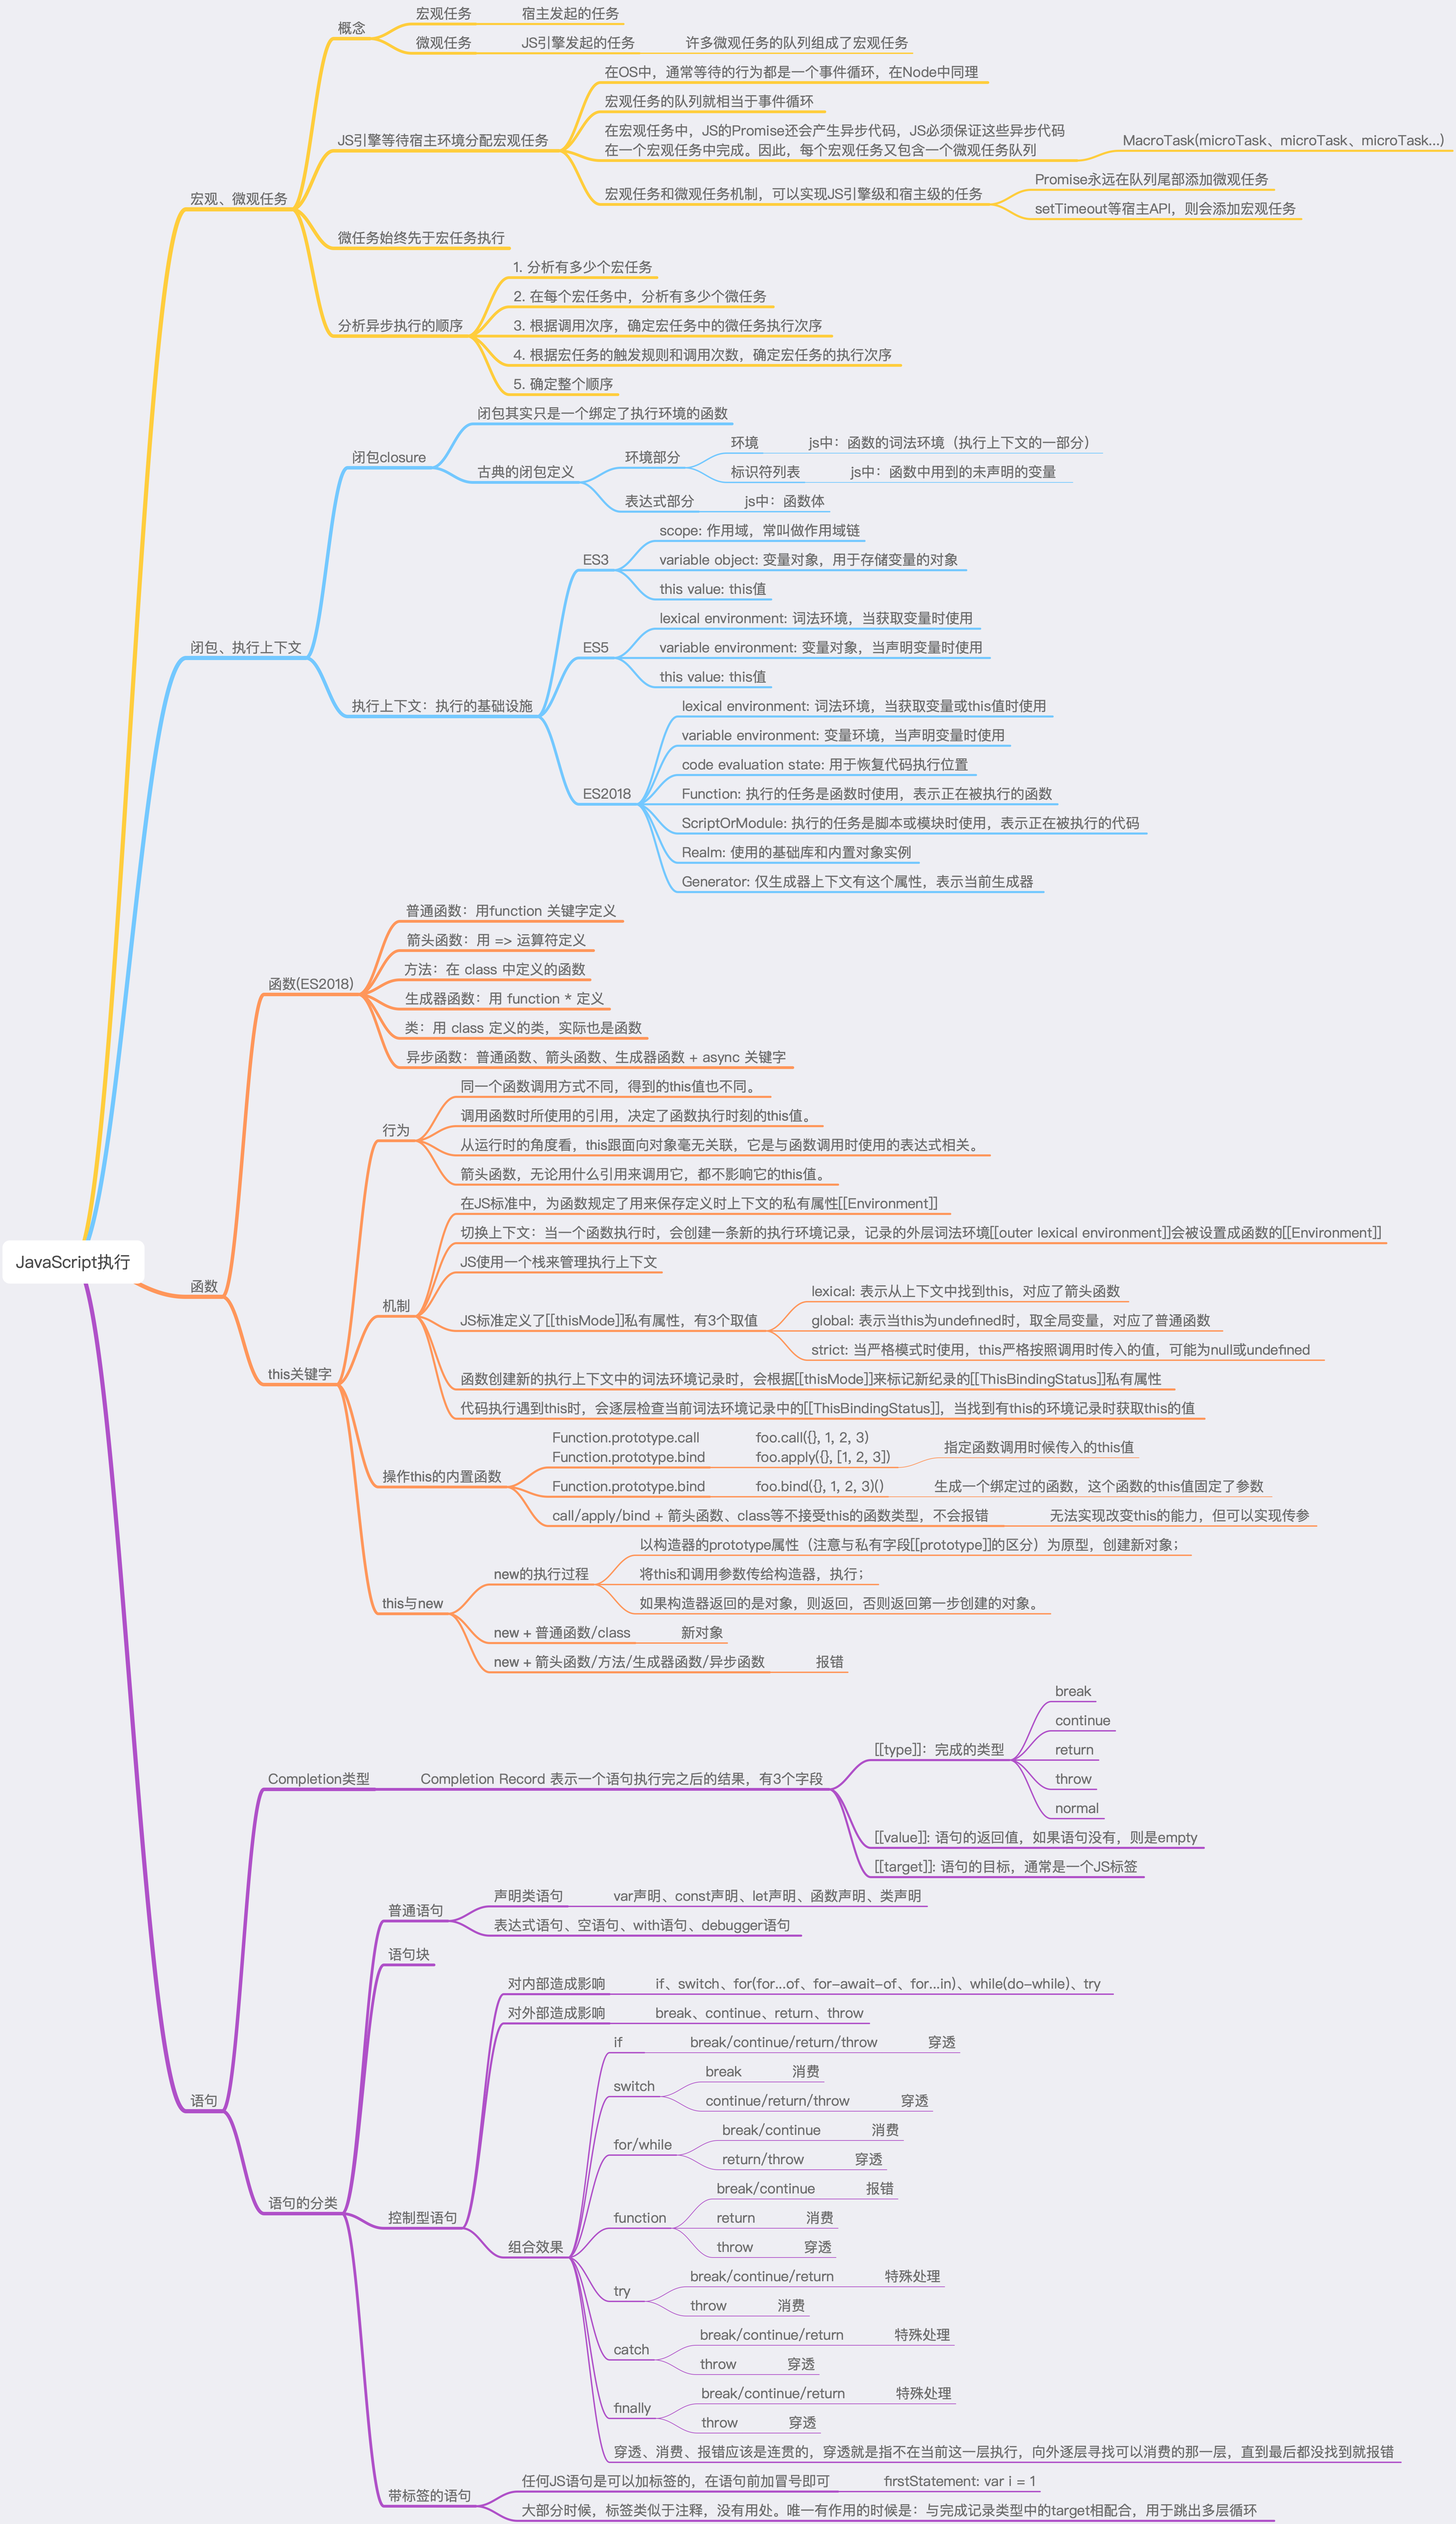
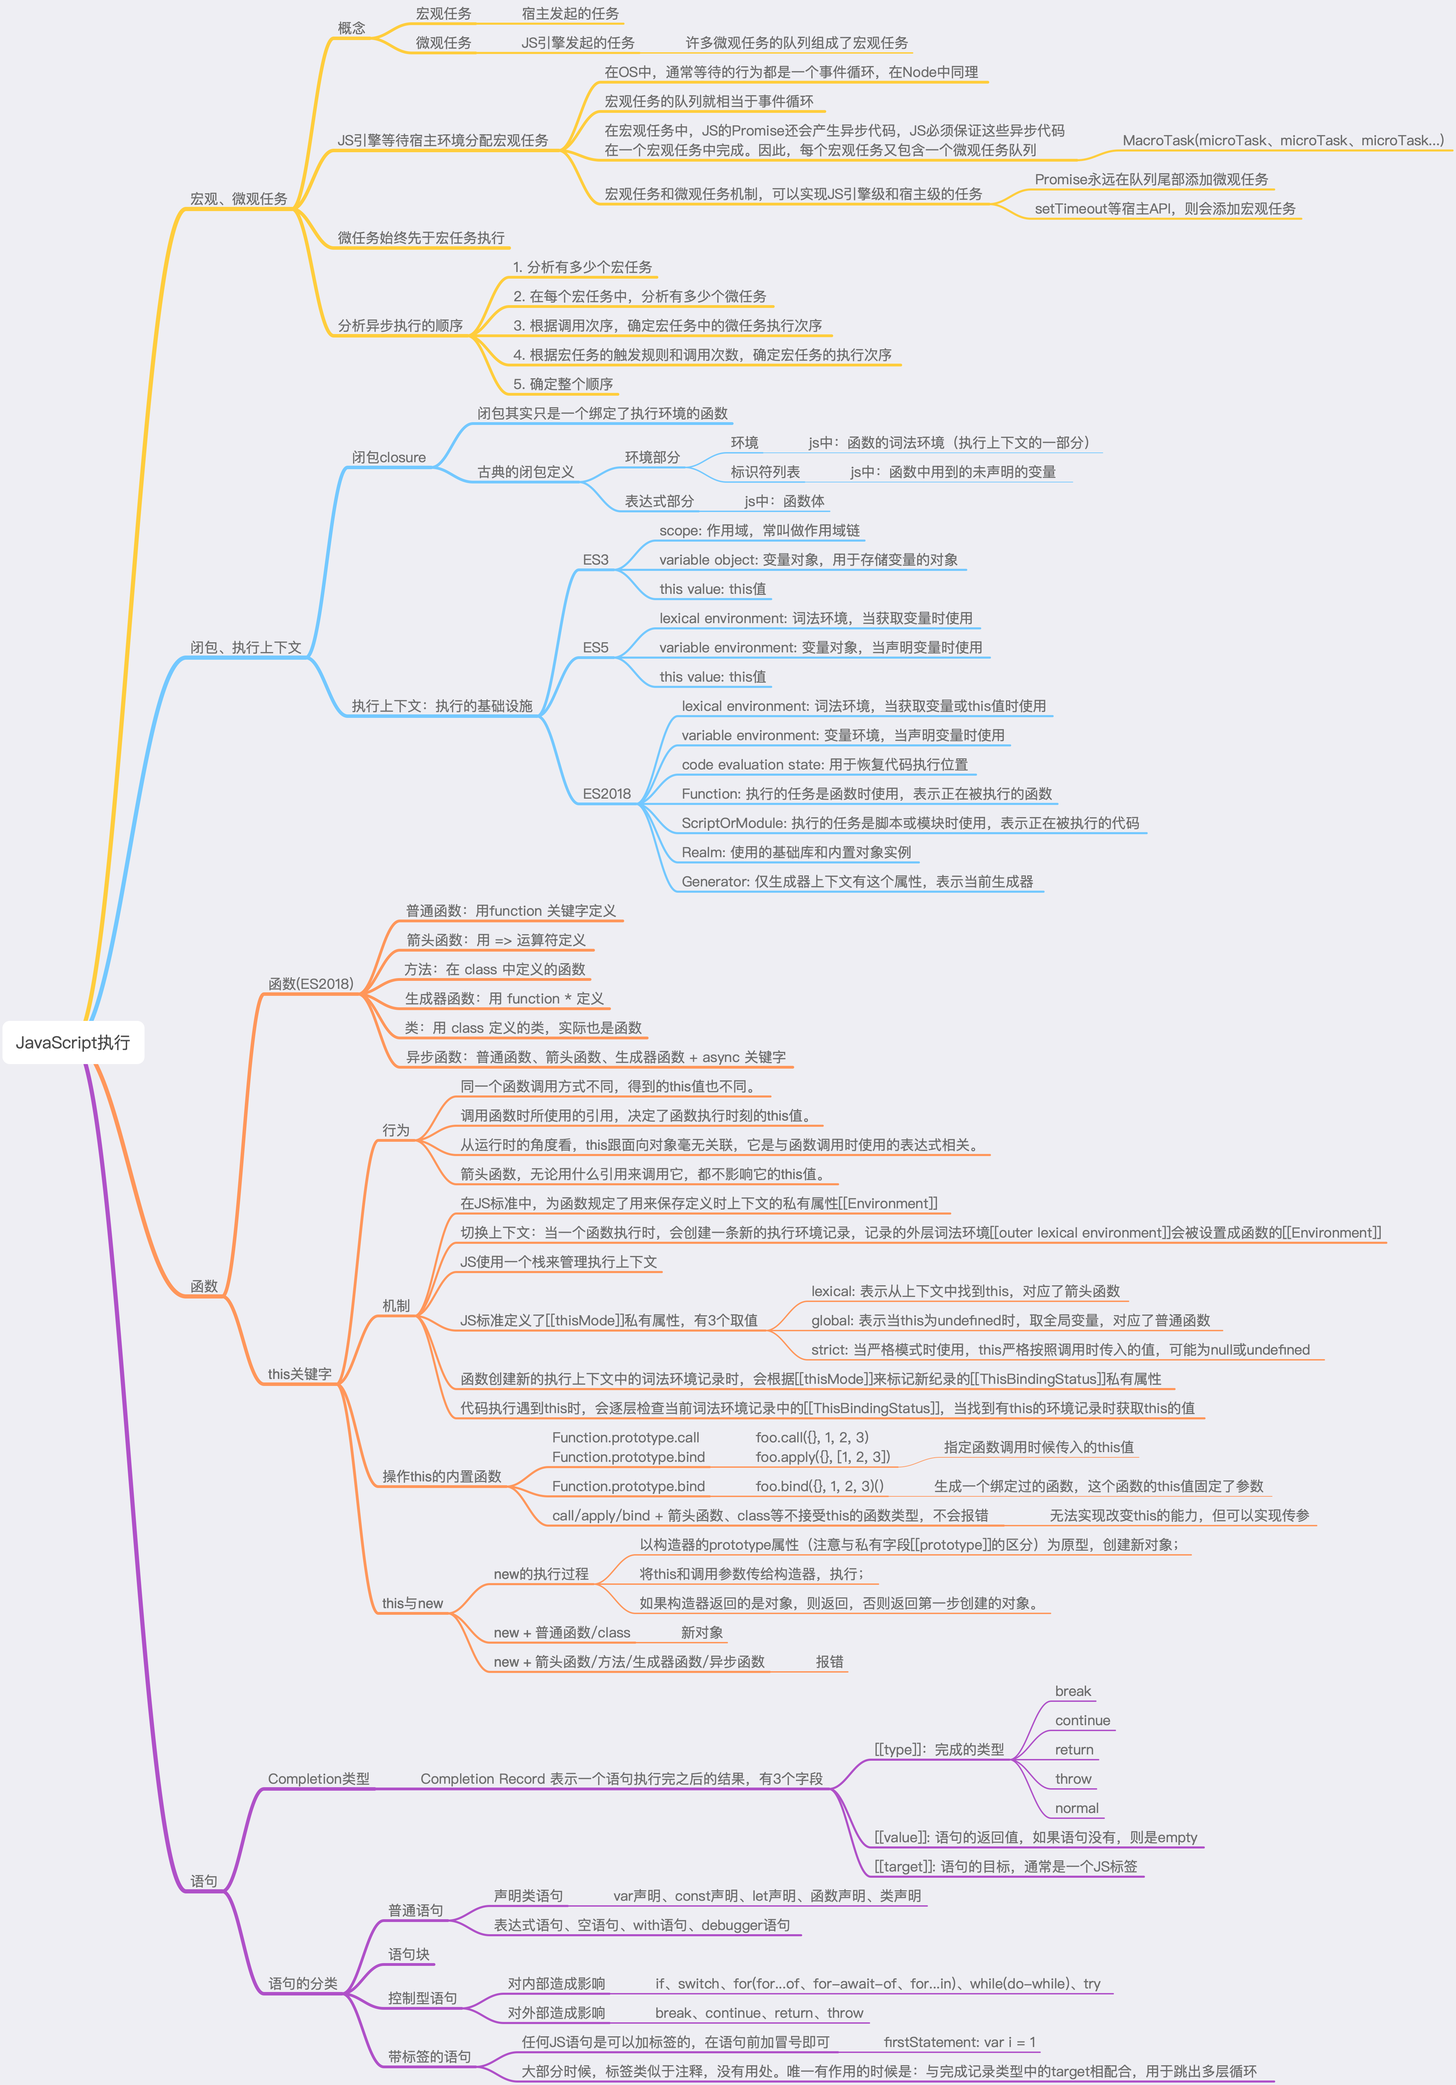
docs(js): update js执行;

diff --git a/Notes/JavaScript/JavaScript执行.md b/Notes/JavaScript/JavaScript执行.md
@@ -1,3 +1,19 @@
 # JavaScript 执行
 
+### 1. 思维导图
+
 ![](/MindMap/JavaScript/JavaScript执行.png)
+
+### 2. 控制型组合效果图
+
+穿透、消费、报错应该是连贯的，穿透就是指不在当前这一层执行，向外逐层寻找可以消费的那一层，直到最后都没找到就报错
+
+|           |  break   | continue |  return  | throw |
+| :-------: | :------: | :------: | :------: | :---: |
+|    if     |   穿透   |   穿透   |   穿透   | 穿透  |
+|  switch   |   消费   |   穿透   |   穿透   | 穿透  |
+| for/while |   消费   |   消费   |   穿透   | 穿透  |
+| function  |   报错   |   报错   |   消费   | 穿透  |
+|    try    | 特殊处理 | 特殊处理 | 特殊处理 | 消费  |
+|   catch   | 特殊处理 | 特殊处理 | 特殊处理 | 穿透  |
+|  finally  | 特殊处理 | 特殊处理 | 特殊处理 | 穿透  |

diff --git a/Notes/JavaScript/JavaScript类型.md b/Notes/JavaScript/JavaScript类型.md
@@ -1,10 +1,10 @@
 # JavaScript 类型
 
-1. 思维导图
+### 1. 思维导图
 
 ![](/MindMap/JavaScript/JavaScript类型.png)
 
-2. 对照表
+### 2. 对照表
 
 |   实例表达式   | typeof 结果 | 运行时类型行为 |
 | :------------: | :---------: | :------------: |
